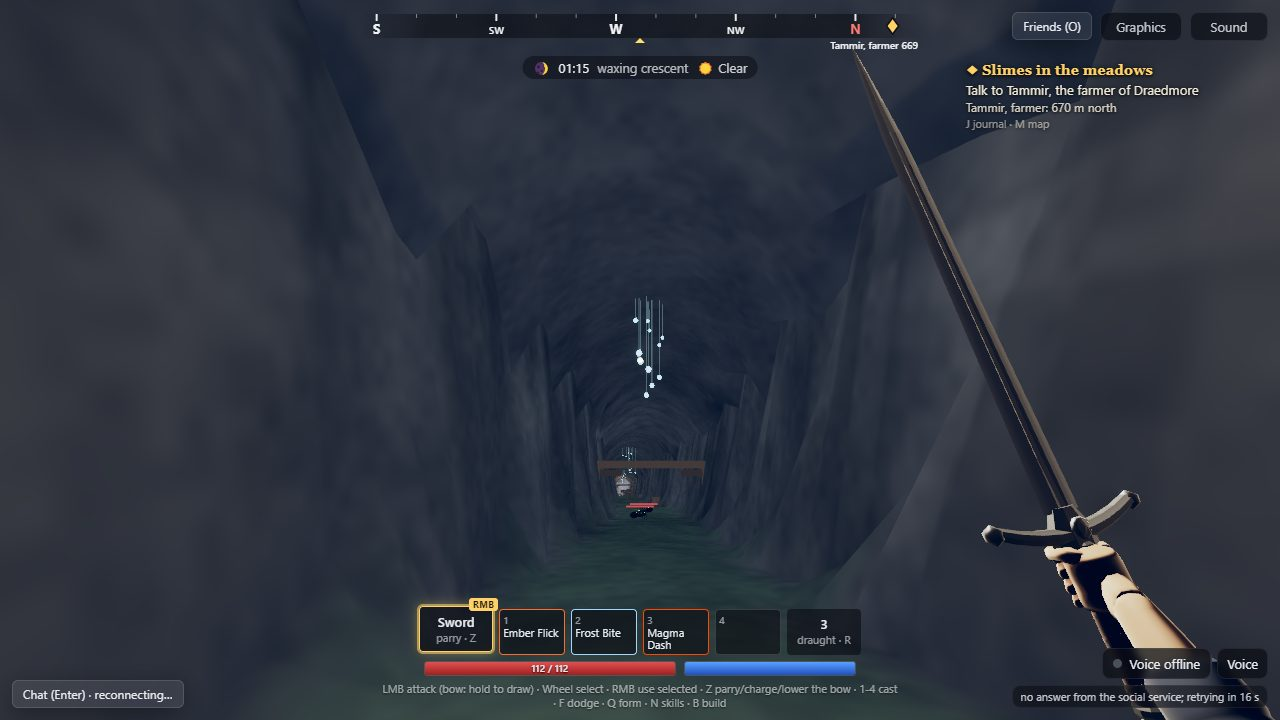
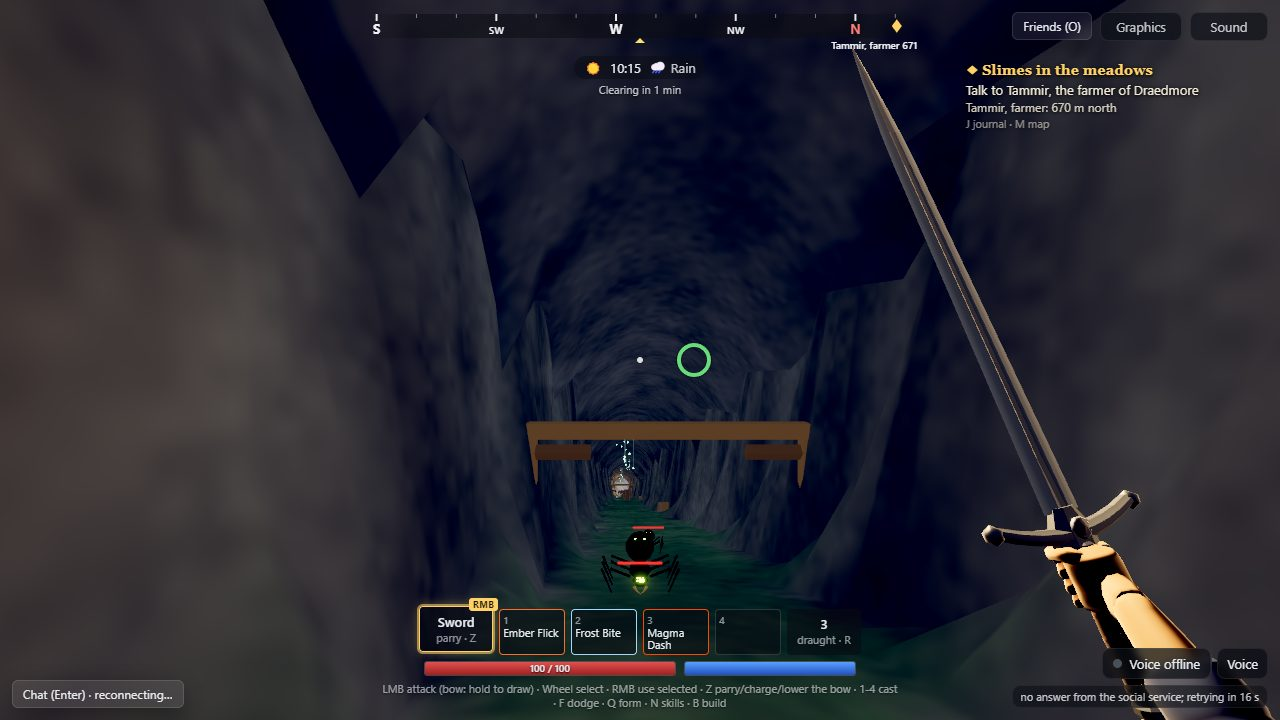
Dwarves client: evidence of a spider in a rail tunnel at 10 m and the stronghold market on flagstone floors; harness can run one shot

diff --git a/client/src/world/vertical/dev/dwarf-connected-shots.ts b/client/src/world/vertical/dev/dwarf-connected-shots.ts
@@ -256,12 +256,13 @@ async function main(): Promise<void> {
     };
 
     // 1. A camp: monsters in the tunnel, then the folk.
-    const camp = await planRoute(false);
-    if (!camp) throw new Error('no camp reachable from a tunnel in this world');
-    await enter(camp);
+    const wantCamp = !only || only.has('cave-monsters') || only.has('camp-folk') || only.has('dwarf-closeup-camp');
+    const camp = wantCamp ? await planRoute(false) : null;
+    if (wantCamp && !camp) throw new Error('no camp reachable from a tunnel in this world');
+    if (camp) await enter(camp);
     let shotCave = false;
-    const midTunnel = Math.floor(route.tunnelPts * 0.45);
-    await walk(0, route.pts.length - 1, 600000, async (i) => {
+    const midTunnel = camp ? Math.floor(route.tunnelPts * 0.45) : 0;
+    if (camp) await walk(0, route.pts.length - 1, 600000, async (i) => {
       if (shotCave || i < midTunnel || (only && !only.has('cave-monsters'))) return;
       shotCave = true;
       await page.keyboard.up('KeyW');
@@ -289,7 +290,7 @@ async function main(): Promise<void> {
       await dev('/despawn');
       await page.keyboard.down('KeyW');
     });
-    if (!only || only.has('dwarf-closeup')) {
+    if (camp && only?.has('dwarf-closeup-camp')) {
       await sleep(9000); // the level-up banner fades
       const t = await approach((l) => l.find((n) => n.name === 'Thramund') ?? l.sort((a, b) => a.x - b.x)[0], 3.6, 0.02);
       console.log(`dwarf close-up: ${t ? `${t.name} at ${(await me()).x.toFixed(0)}` : 'no townsperson reachable'}`);
@@ -297,14 +298,14 @@ async function main(): Promise<void> {
       await shot('dwarf-closeup');
       await dev('/despawn');
     }
-    if (!only || only.has('camp-folk')) {
+    if (camp && (!only || only.has('camp-folk'))) {
       await faceNearest(5, -0.05);
       await sleep(800);
       await shot('camp-folk');
     }
 
     // 2. A stronghold: across its cavern and down the Deep Road to the market.
-    if (!only || only.has('stronghold-market')) {
+    if (!only || only.has('stronghold-market') || only.has('dwarf-closeup')) {
       const hold = await planRoute(true);
       if (!hold) console.log('no stronghold reachable from a tunnel through a vast cavern in this world');
       else {
@@ -315,7 +316,12 @@ async function main(): Promise<void> {
         const p = await me();
         console.log(`stronghold folk in view: ${(await drawn(5)).length} at (${p.x.toFixed(0)}, ${p.y.toFixed(0)}, ${p.z.toFixed(0)})`);
         await sleep(1000);
-        await shot('stronghold-market');
+        if (!only || only.has('stronghold-market')) await shot('stronghold-market');
+        // A dwarf close-up in the market: the nearest townsperson, 3.6 m away.
+        const t = await approach((l) => l.sort((a, b) => Math.hypot(a.x - (route.target.x), a.z - route.target.z) - Math.hypot(b.x - route.target.x, b.z - route.target.z))[0], 3.6, 0.02);
+        console.log(`dwarf close-up: ${t ? t.name : 'no townsperson reachable'}`);
+        await sleep(1200);
+        await shot('dwarf-closeup');
       }
     }
   } finally {
